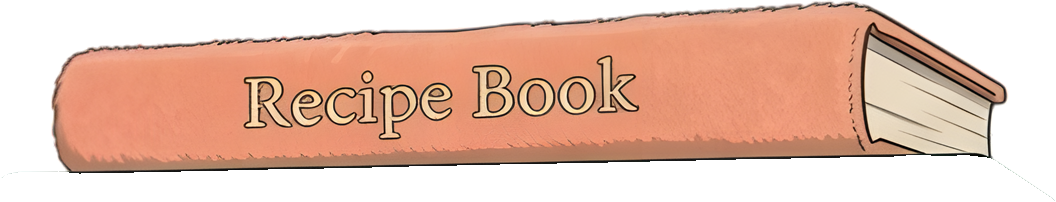
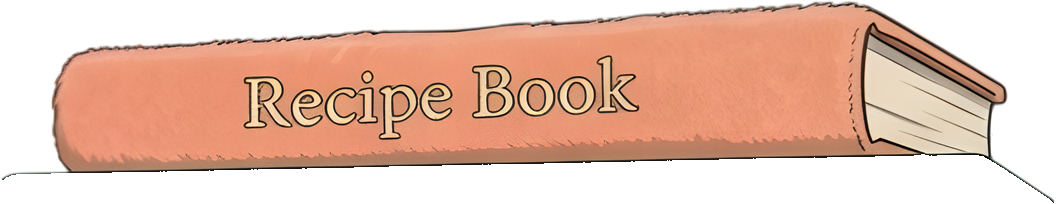
Book stack: each book keeps only its own thin outline where it meets the book below, so no sliver of the neighbour's colour shows when a book slides out

diff --git a/js/scene.js b/js/scene.js
@@ -8,9 +8,9 @@ function renderBadge(){const n=unreadLetters()+newReviews(),bd=$('#booksBadge');
 
 /* The book stack: each book cut from the stack picture along its drawn outline (a watershed from points inside each book,
    so every cut follows the darkest line between two books) (659x672): left, top, width in that frame. */
-const STACK=[['Recipe Book','book-recipe-book',79,0,528],['Book of Making','book-book-of-making',71,77,545],['Grimoire of Craft','book-grimoire-of-craft',29,159,603],
-  ['Almanac of Sky & Seasons','book-almanac-of-sky-seasons',0,229,659],['Tarot Companion','book-tarot-companion',37,330,580],['Gentle Bestiary','book-gentle-bestiary',20,362,630],
-  ['Crystal Almanac','book-crystal-almanac',19,429,637],['Herbiary','book-herbiary',32,514,611]];
+const STACK=[['Recipe Book','book-recipe-book',79,0,528],['Book of Making','book-book-of-making',71,77,559],['Grimoire of Craft','book-grimoire-of-craft',29,154,603],
+  ['Almanac of Sky & Seasons','book-almanac-of-sky-seasons',0,224,659],['Tarot Companion','book-tarot-companion',37,327,584],['Gentle Bestiary','book-gentle-bestiary',20,360,630],
+  ['Crystal Almanac','book-crystal-almanac',19,431,637],['Herbiary','book-herbiary',32,509,614]];
 function buildScene(){
   document.querySelectorAll('#scene img[data-img]').forEach(i=>i.src=ASSETS.objects[i.dataset.img]);
   const stack=STACK.map(([b,img,x,y,w])=>`<button data-openbook="${esc(b)}" aria-label="Open the ${esc(b)}" style="left:${x/659*100}%;top:${y/672*100}%;width:${w/659*100}%"><img src="${ASSETS.objects[img]}" alt=""></button>`).join('');
